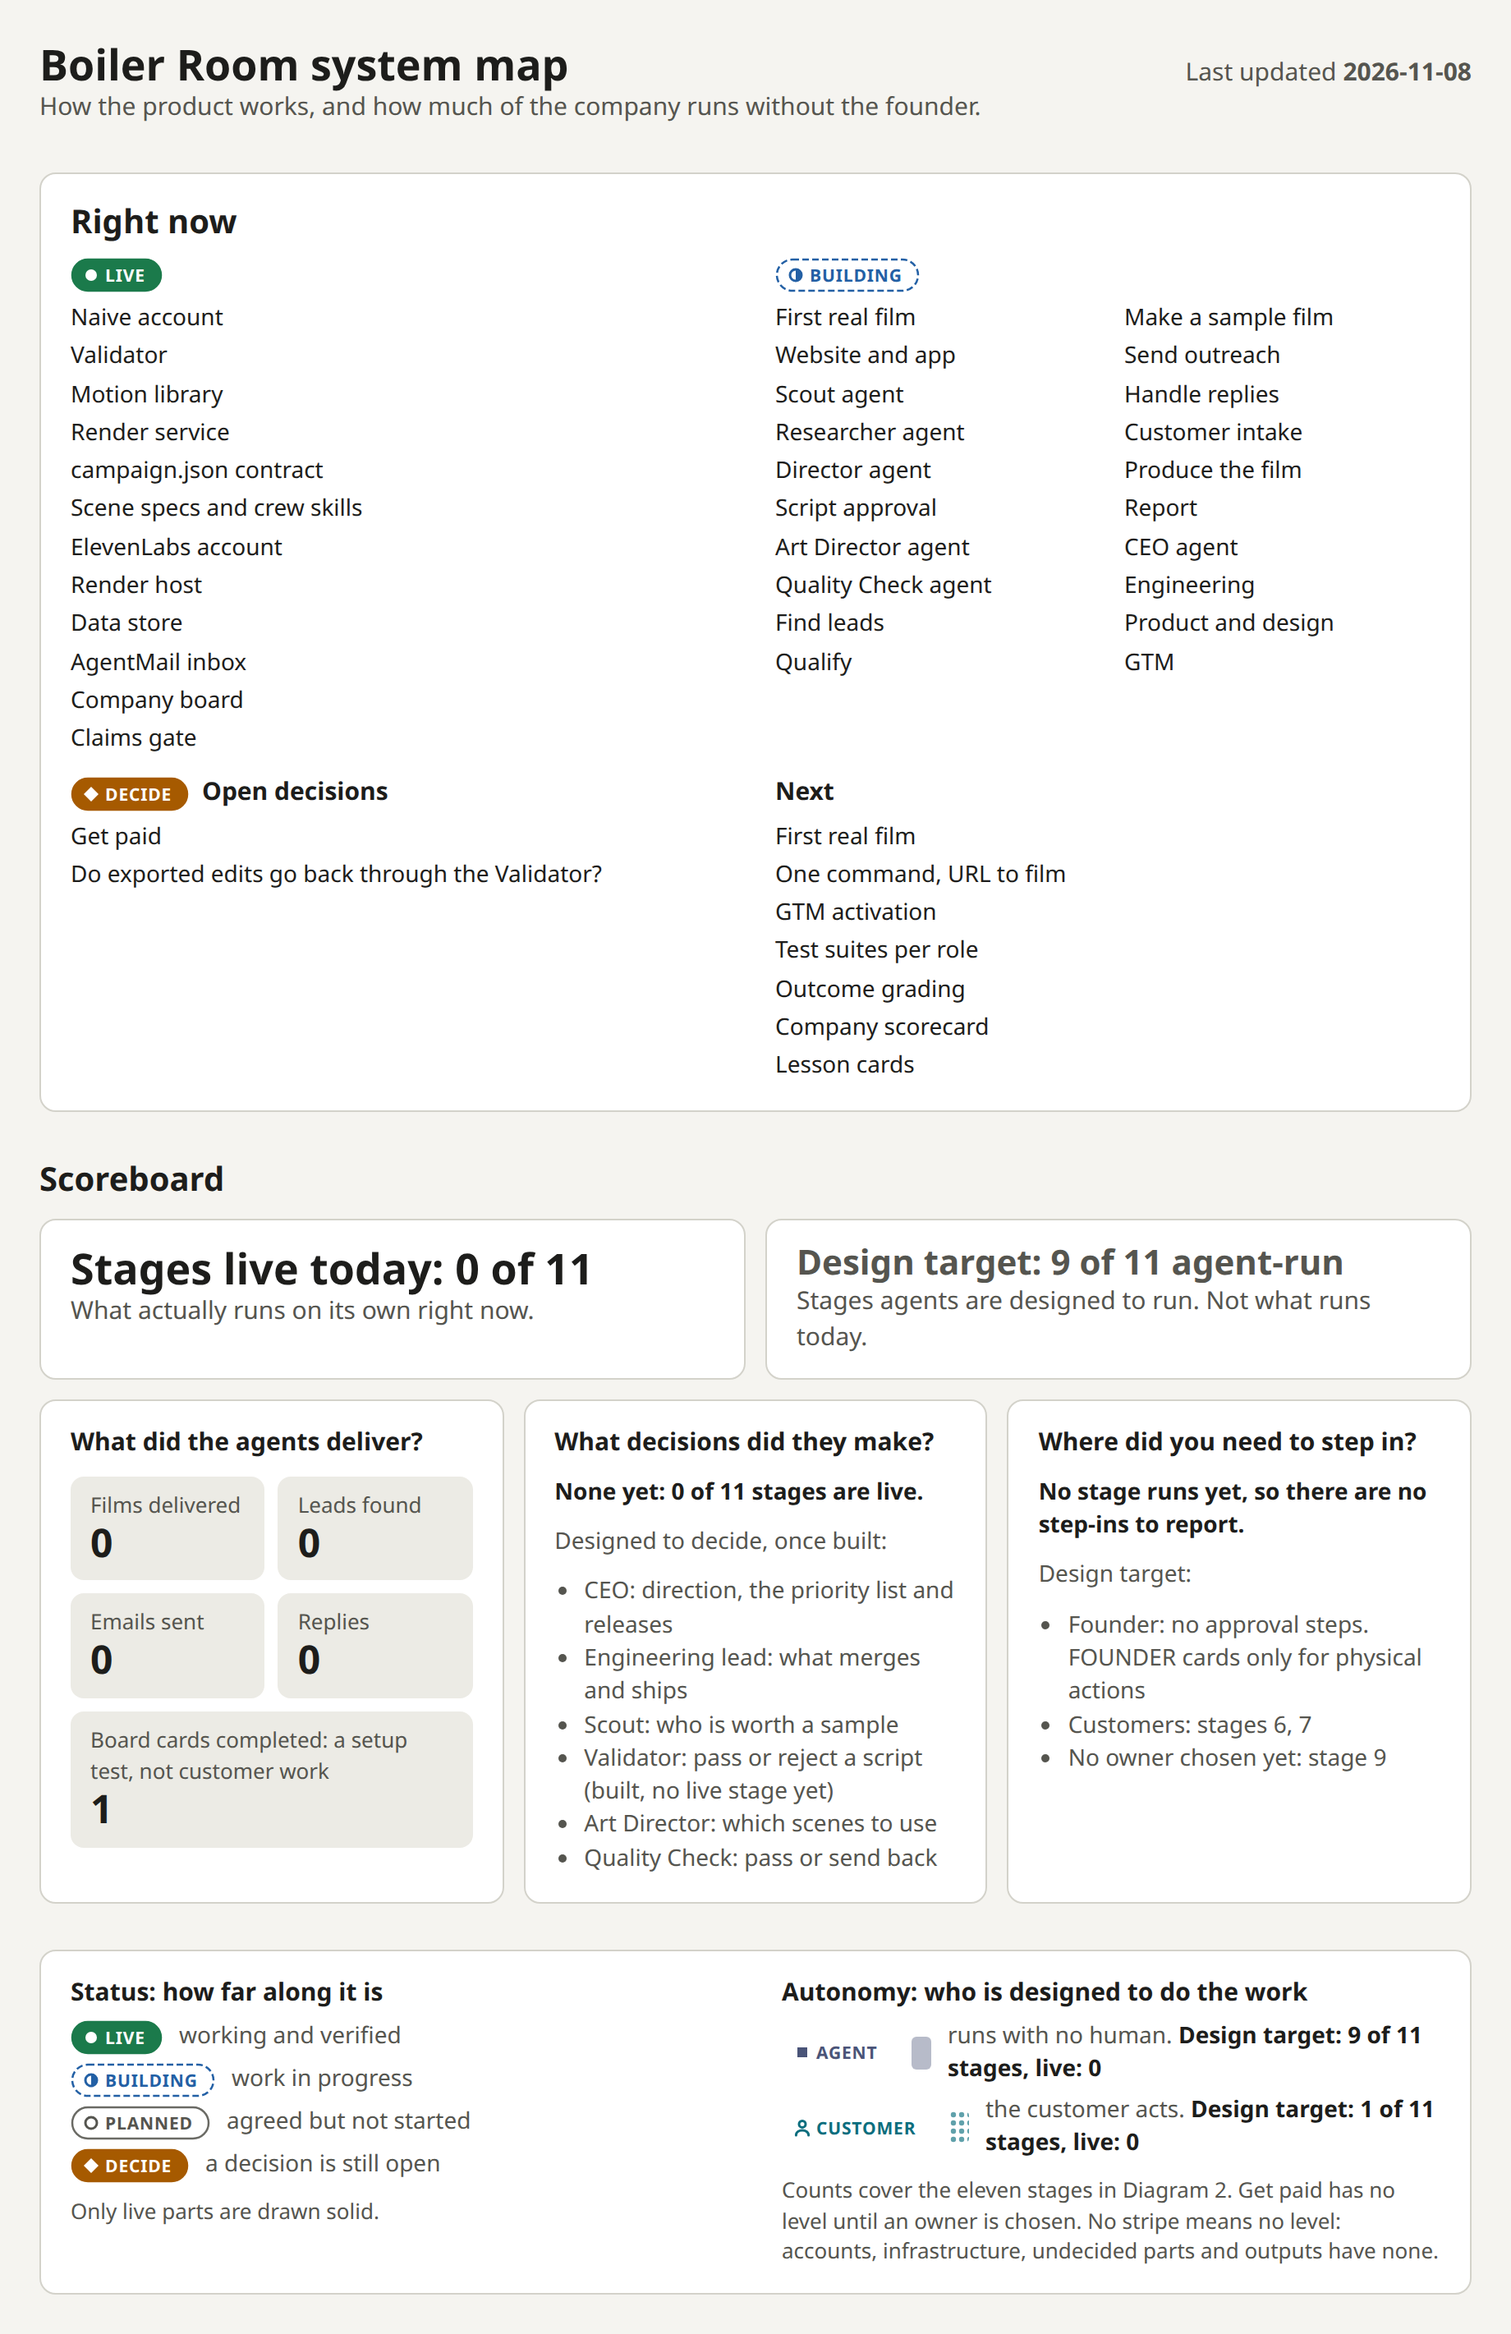
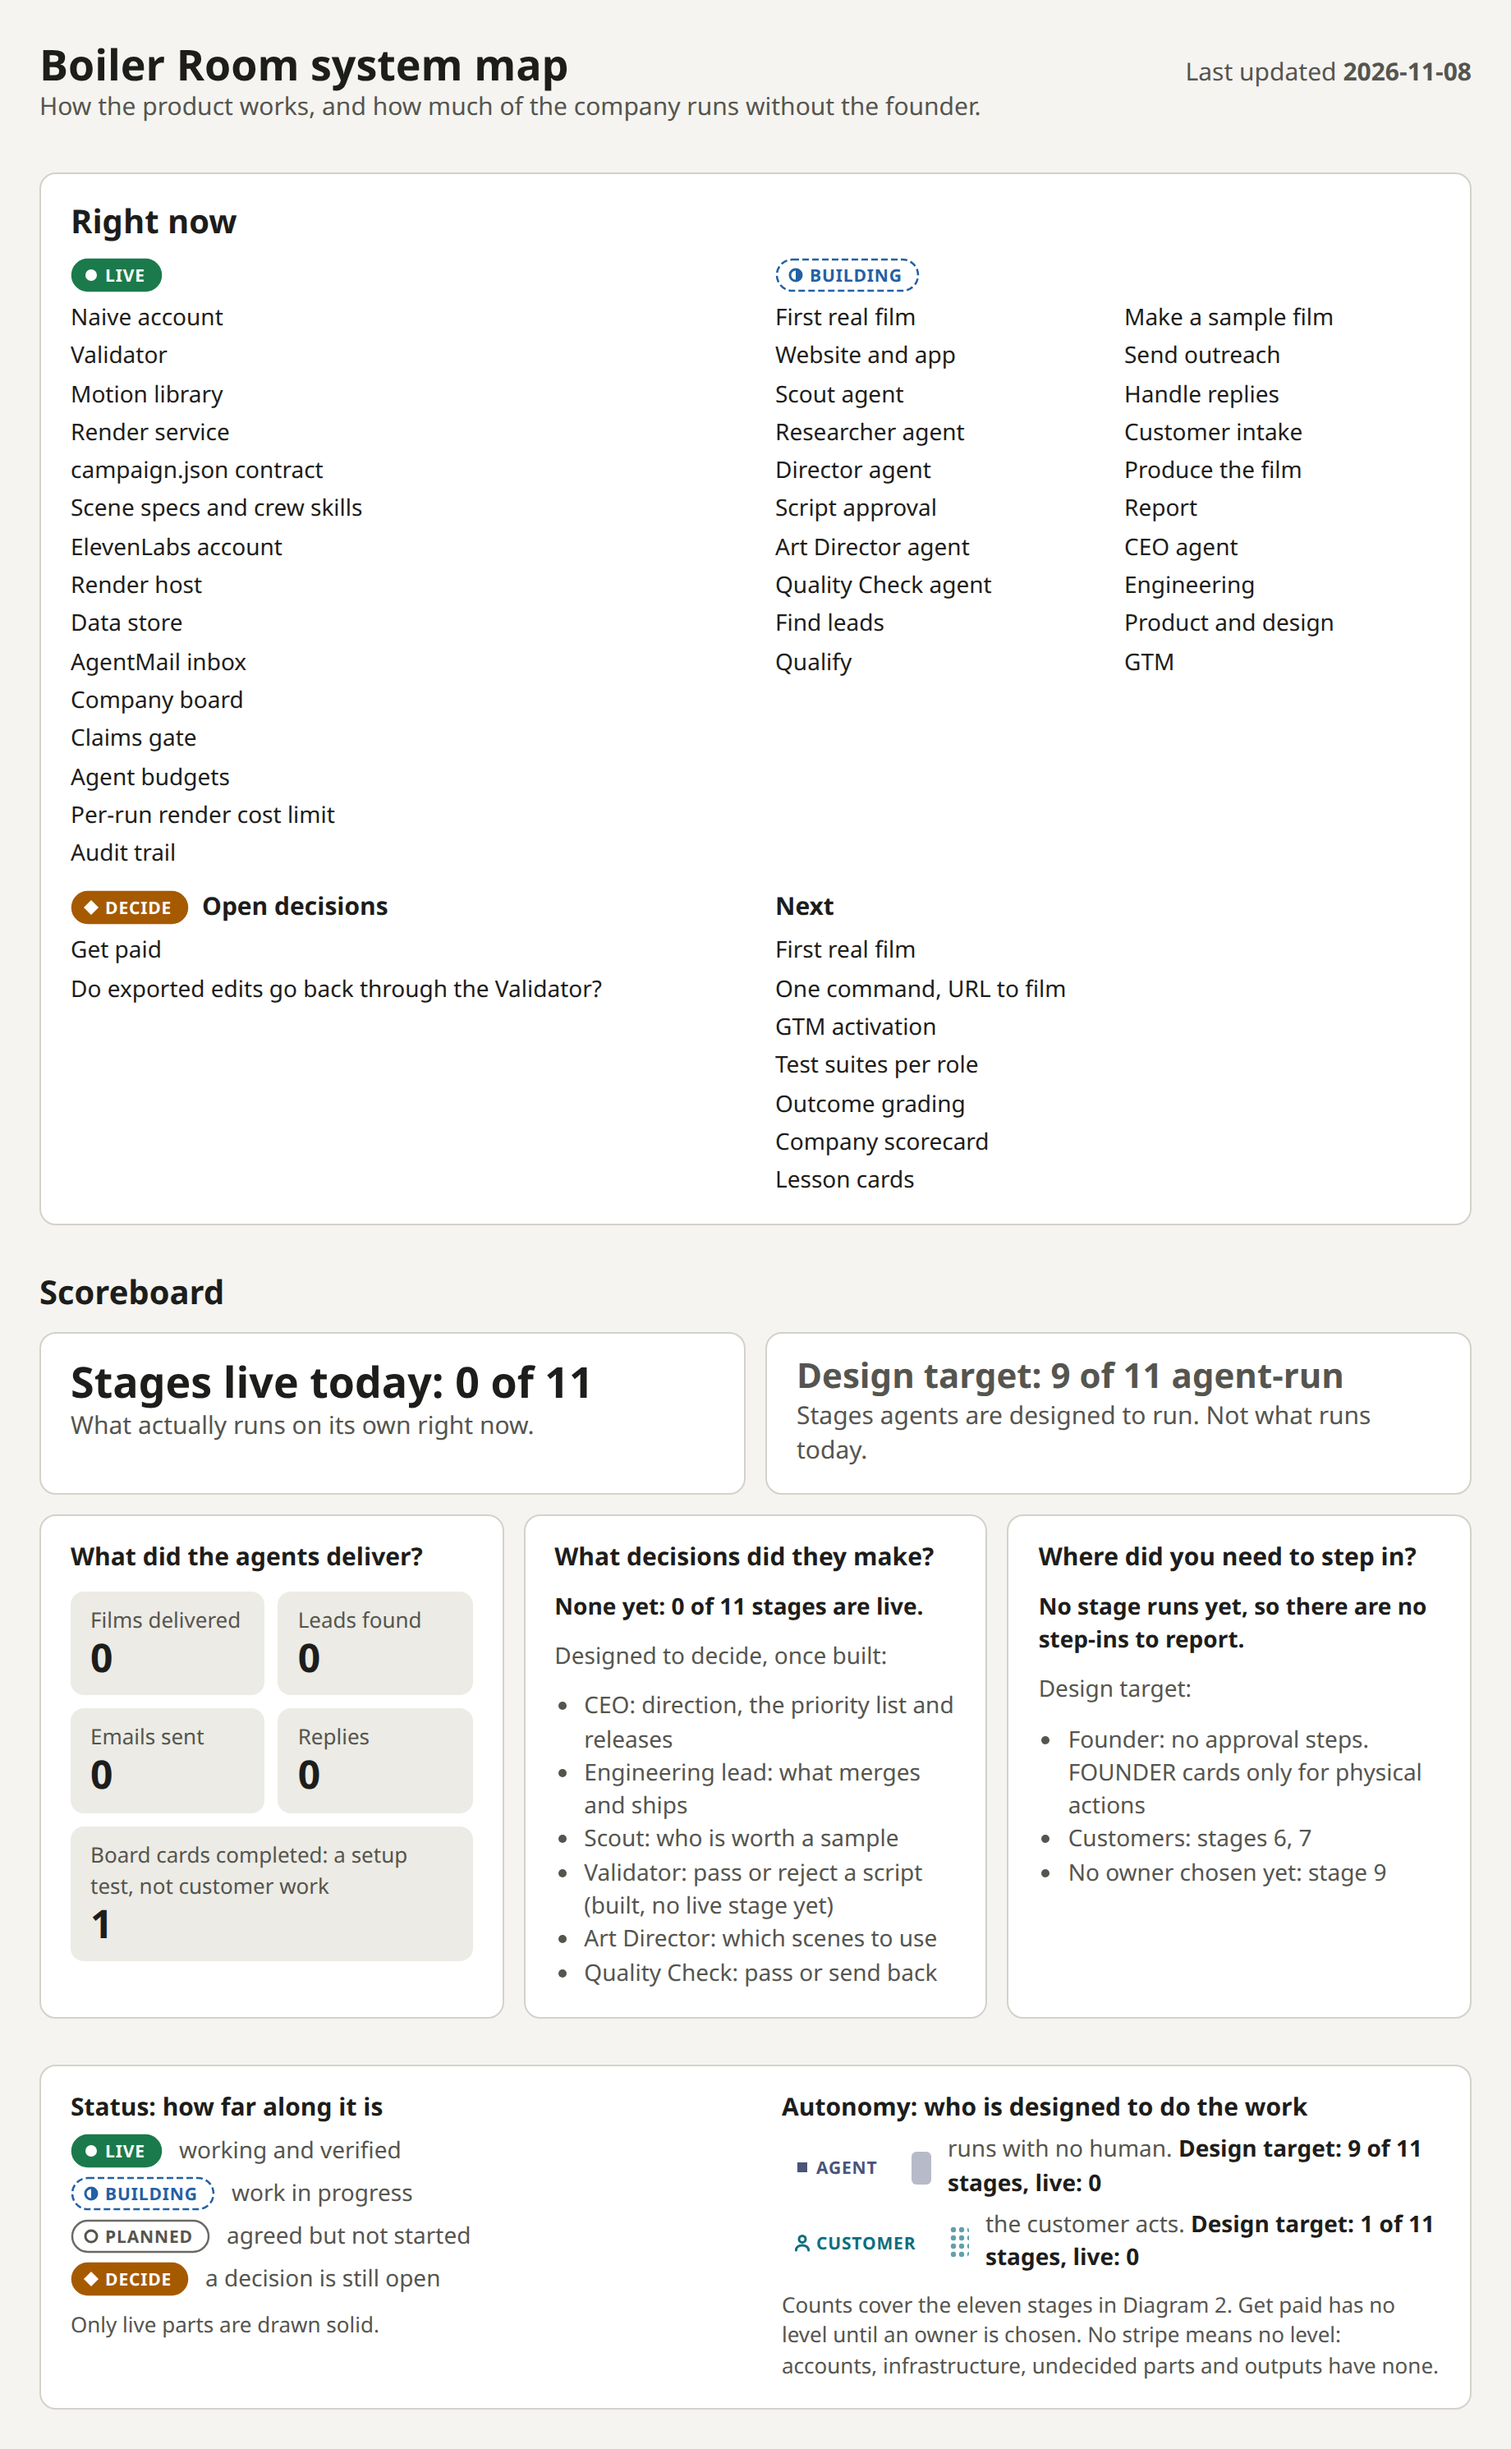
docs: restore the true guard rails and tool notes to the system map
db00ceb removed guard rails and notes that are true, because the checker's
facts list was too short. Restore them:

- Untrusted content (RULE): agents that read customer websites, inbound
  email, social posts or lead data cannot push code, deploy, send or spend.
- App secrets (RULE): Clerk keys and other app secrets live as Cloudflare
  Worker secrets; no agent holds them.
- Agent budgets (live): every agent has a daily cap and a per-task ceiling
  on Naive.
- Per-run render cost limit (live): the render service refuses to start a
  render whose estimated cost exceeds its limit.
- Audit trail (live): every agent session, card and comment is logged on
  Naive.
- Engineering tools: repo access through a GitHub token on its computers,
  and the note that Clerk keys are app secrets agents never hold.
- GTM tools: Naive lead data, Naive's built-in read-only data and social
  data tools, under the team's dry run.

Everything else from db00ceb stays. The README Live list gains the three
live rails. Regenerate technical.png, autonomy.png and scoreboard.png.

Claude-Session: https://claude.ai/code/session_01UKykBufjuLmqNyFJZzFeGe

diff --git a/docs/system-map/index.html b/docs/system-map/index.html
@@ -1045,21 +1045,26 @@ const MAP = {
 
   /* What each team can use. label marks a team that is not fully running yet, such as DRY RUN. */
   tools: [
-    { team: 'Engineering',        tools: ['Both repos, through pull requests', 'Bash', 'Cloudflare deploy, rollback, migration and log commands', 'The engineering skill: deploying releases and bug fixes'] },
+    { team: 'Engineering',        tools: ['Repo access through a GitHub token on its computers', 'Bash', 'Cloudflare deploy, rollback, migration and log commands', 'The engineering skill: deploying releases and bug fixes'], note: 'Clerk keys are app secrets that agents never hold.' },
     { team: 'Product and design', tools: ['The design repo', 'Image generation'] },
-    { team: 'GTM',                tools: ['A Boiler Room app account, to make free sample films', 'X, to quote-post a launch post with its film: needs a connected X account', 'AgentMail, for cold email with a film link'], note: 'Agents decide on the board and code sends.', label: 'DRY RUN' },
+    { team: 'GTM',                tools: ['A Boiler Room app account, to make free sample films', 'X, to quote-post a launch post with its film: needs a connected X account', 'AgentMail, for cold email with a film link', "Naive lead data: Naive's built-in read-only data and social data tools"], note: 'Agents decide on the board and code sends.', label: 'DRY RUN' },
     { team: 'CEO',                tools: ['The board and its skill'], note: 'Every admin tool it would otherwise get as the account CEO is denied by name.' },
   ],
 
   /* Guard rails. status null means a rule or a limit, not something being built: label says
      which. This repo is public: no account balances or credit counts here. */
   guardRails: [
+    { id: 'untrusted-content',  name: 'Untrusted content',       value: '',                                detail: 'Agents that read untrusted content, like customer websites, inbound email, social posts or lead data, cannot push code, deploy, send or spend.', status: null, label: 'RULE' },
     { id: 'ship-path',          name: 'Path to production',      value: '',                                detail: 'Engineers open pull requests into dev that must pass tests. When a goal is delivered, the CEO creates a RELEASE card; the engineering lead promotes dev to main through a pull request and deploys production, with checks and rollback. Nobody else may touch main or production.', status: null, label: 'RULE' },
     { id: 'branch-rules',       name: 'Branch rules',            value: '',                                detail: 'On main and dev, in both repos: a pull request is required, with no force push and no deletion.', status: null, label: 'RULE' },
     { id: 'ceo-tools',          name: 'CEO tools',               value: '',                                detail: 'Every one of the hundreds of admin tools the account CEO would otherwise get is denied by name. It is offered only the board and its skill.', status: null, label: 'RULE' },
     { id: 'crew-cards',         name: 'Crew and company cards',  value: '',                                detail: 'Production crew agents cannot write company cards.', status: null, label: 'RULE' },
     { id: 'gtm-dry-run',        name: 'GTM dry run',             value: '',                                detail: 'GTM agents decide on the board and code sends. They post and send nothing until activated.', status: null, label: 'RULE' },
+    { id: 'app-secrets',        name: 'App secrets',             value: '',                                detail: 'Clerk keys and other app secrets live as Cloudflare Worker secrets. No agent holds them.', status: null, label: 'RULE' },
     { id: 'claims-gate',        name: 'Claims gate',             value: '',                                detail: 'The Validator rejects invented numbers before script approval. Whether exported edits pass it too is still open.', status: 'live' },
+    { id: 'agent-budgets',      name: 'Agent budgets',           value: '',                                detail: 'Every agent has a daily cap and a per-task ceiling on Naive.', status: 'live' },
+    { id: 'render-cost-limit',  name: 'Per-run render cost limit', value: '',                              detail: 'The render service refuses to start a render whose estimated cost exceeds its limit.', status: 'live' },
+    { id: 'audit-trail',        name: 'Audit trail',             value: '',                                detail: 'Every agent session, card and comment is logged on Naive.', status: 'live' },
     { id: 'elevenlabs-reserve', name: 'ElevenLabs reserve',      value: '',                                detail: 'Customer films are music-led and readable with sound off. ElevenLabs is kept for the films that matter, such as the demo film.', status: null, label: 'RULE' },
     { id: 'agentmail-plan',     name: 'AgentMail free plan',     value: '3,000 emails a month, 3 inboxes', detail: 'Plan limit.', status: null, label: 'LIMIT' },
   ],

diff --git a/docs/system-map/README.md b/docs/system-map/README.md
@@ -10,7 +10,7 @@ Most of the eleven-stage loop is still the design, not what runs today. The scor
 
 As of 2026-11-08:
 
-- **Live:** Naive account, Validator, Motion library, Render service, `campaign.json` contract, Scene specs and crew skills, ElevenLabs account, Render host, Data store, AgentMail inbox, Company board, Claims gate
+- **Live:** Naive account, Validator, Motion library, Render service, `campaign.json` contract, Scene specs and crew skills, ElevenLabs account, Render host, Data store, AgentMail inbox, Company board, Claims gate, Agent budgets, Per-run render cost limit, Audit trail
 - **Building:** First real film, Website and app, Scout agent, Researcher agent, Director agent, Script approval, Art Director agent, Quality Check agent, Find leads, Qualify, Make a sample film, Send outreach, Handle replies, Customer intake, Produce the film, Report, CEO agent, Engineering, Product and design, GTM
 - **Open decisions:** Get paid, and whether exported edits go back through the Validator
 - **Next:** First real film, One command, URL to film, GTM activation, Test suites per role, Outcome grading, Company scorecard, Lesson cards
